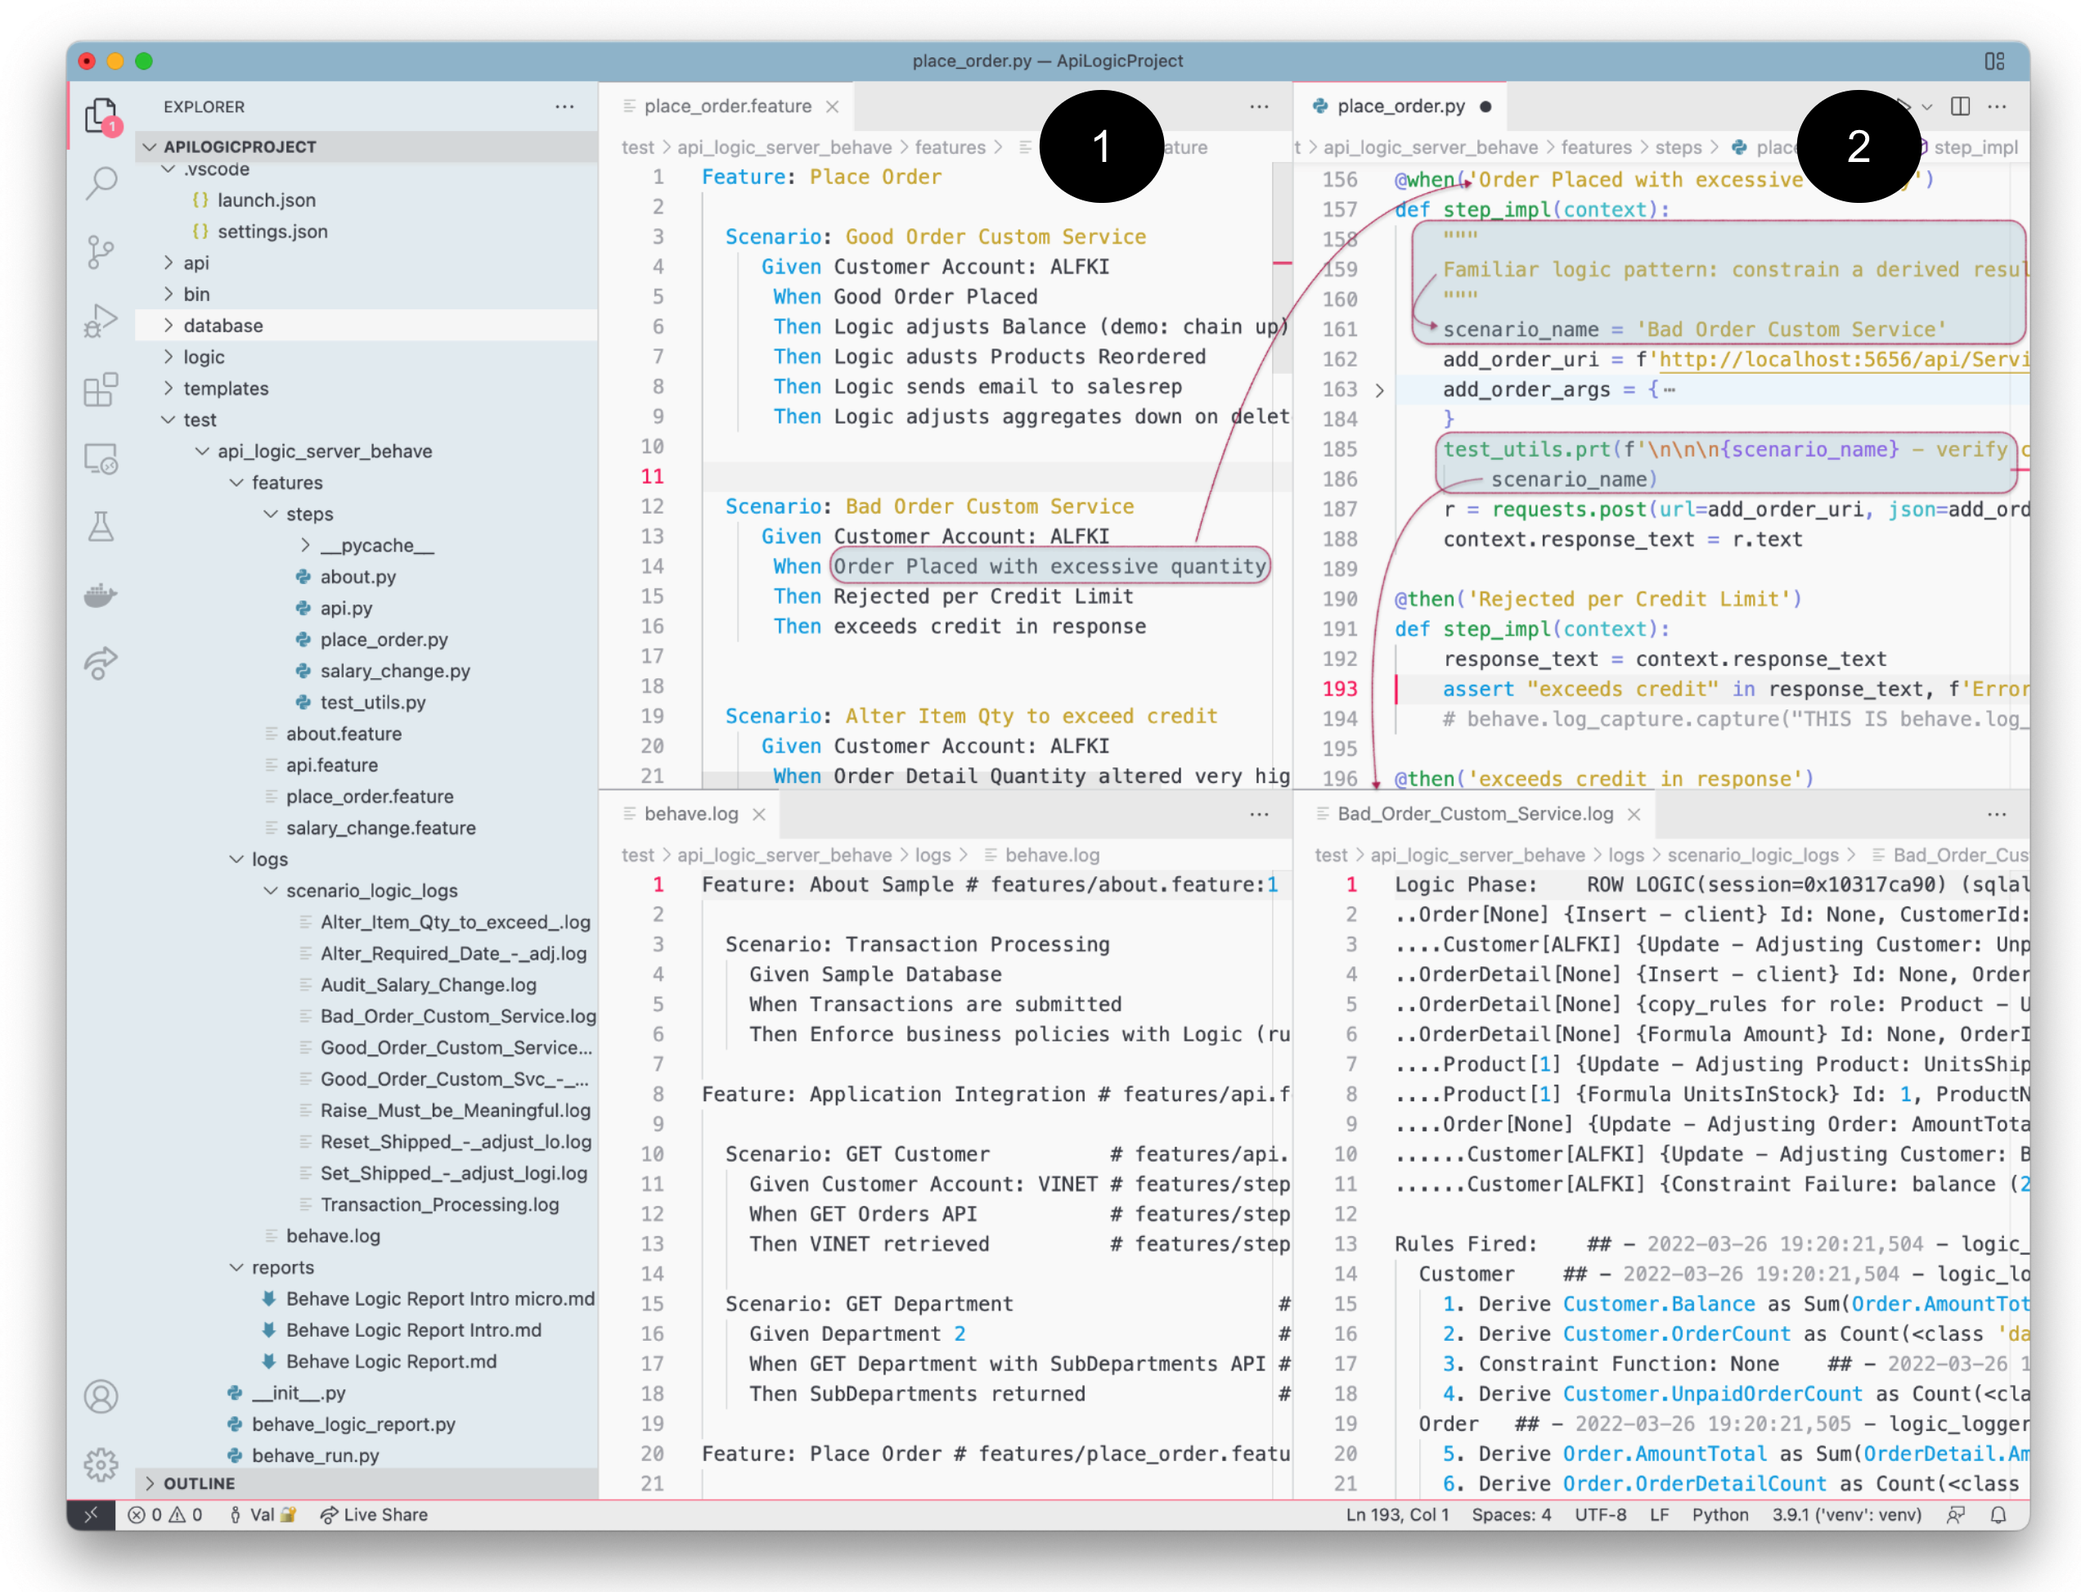
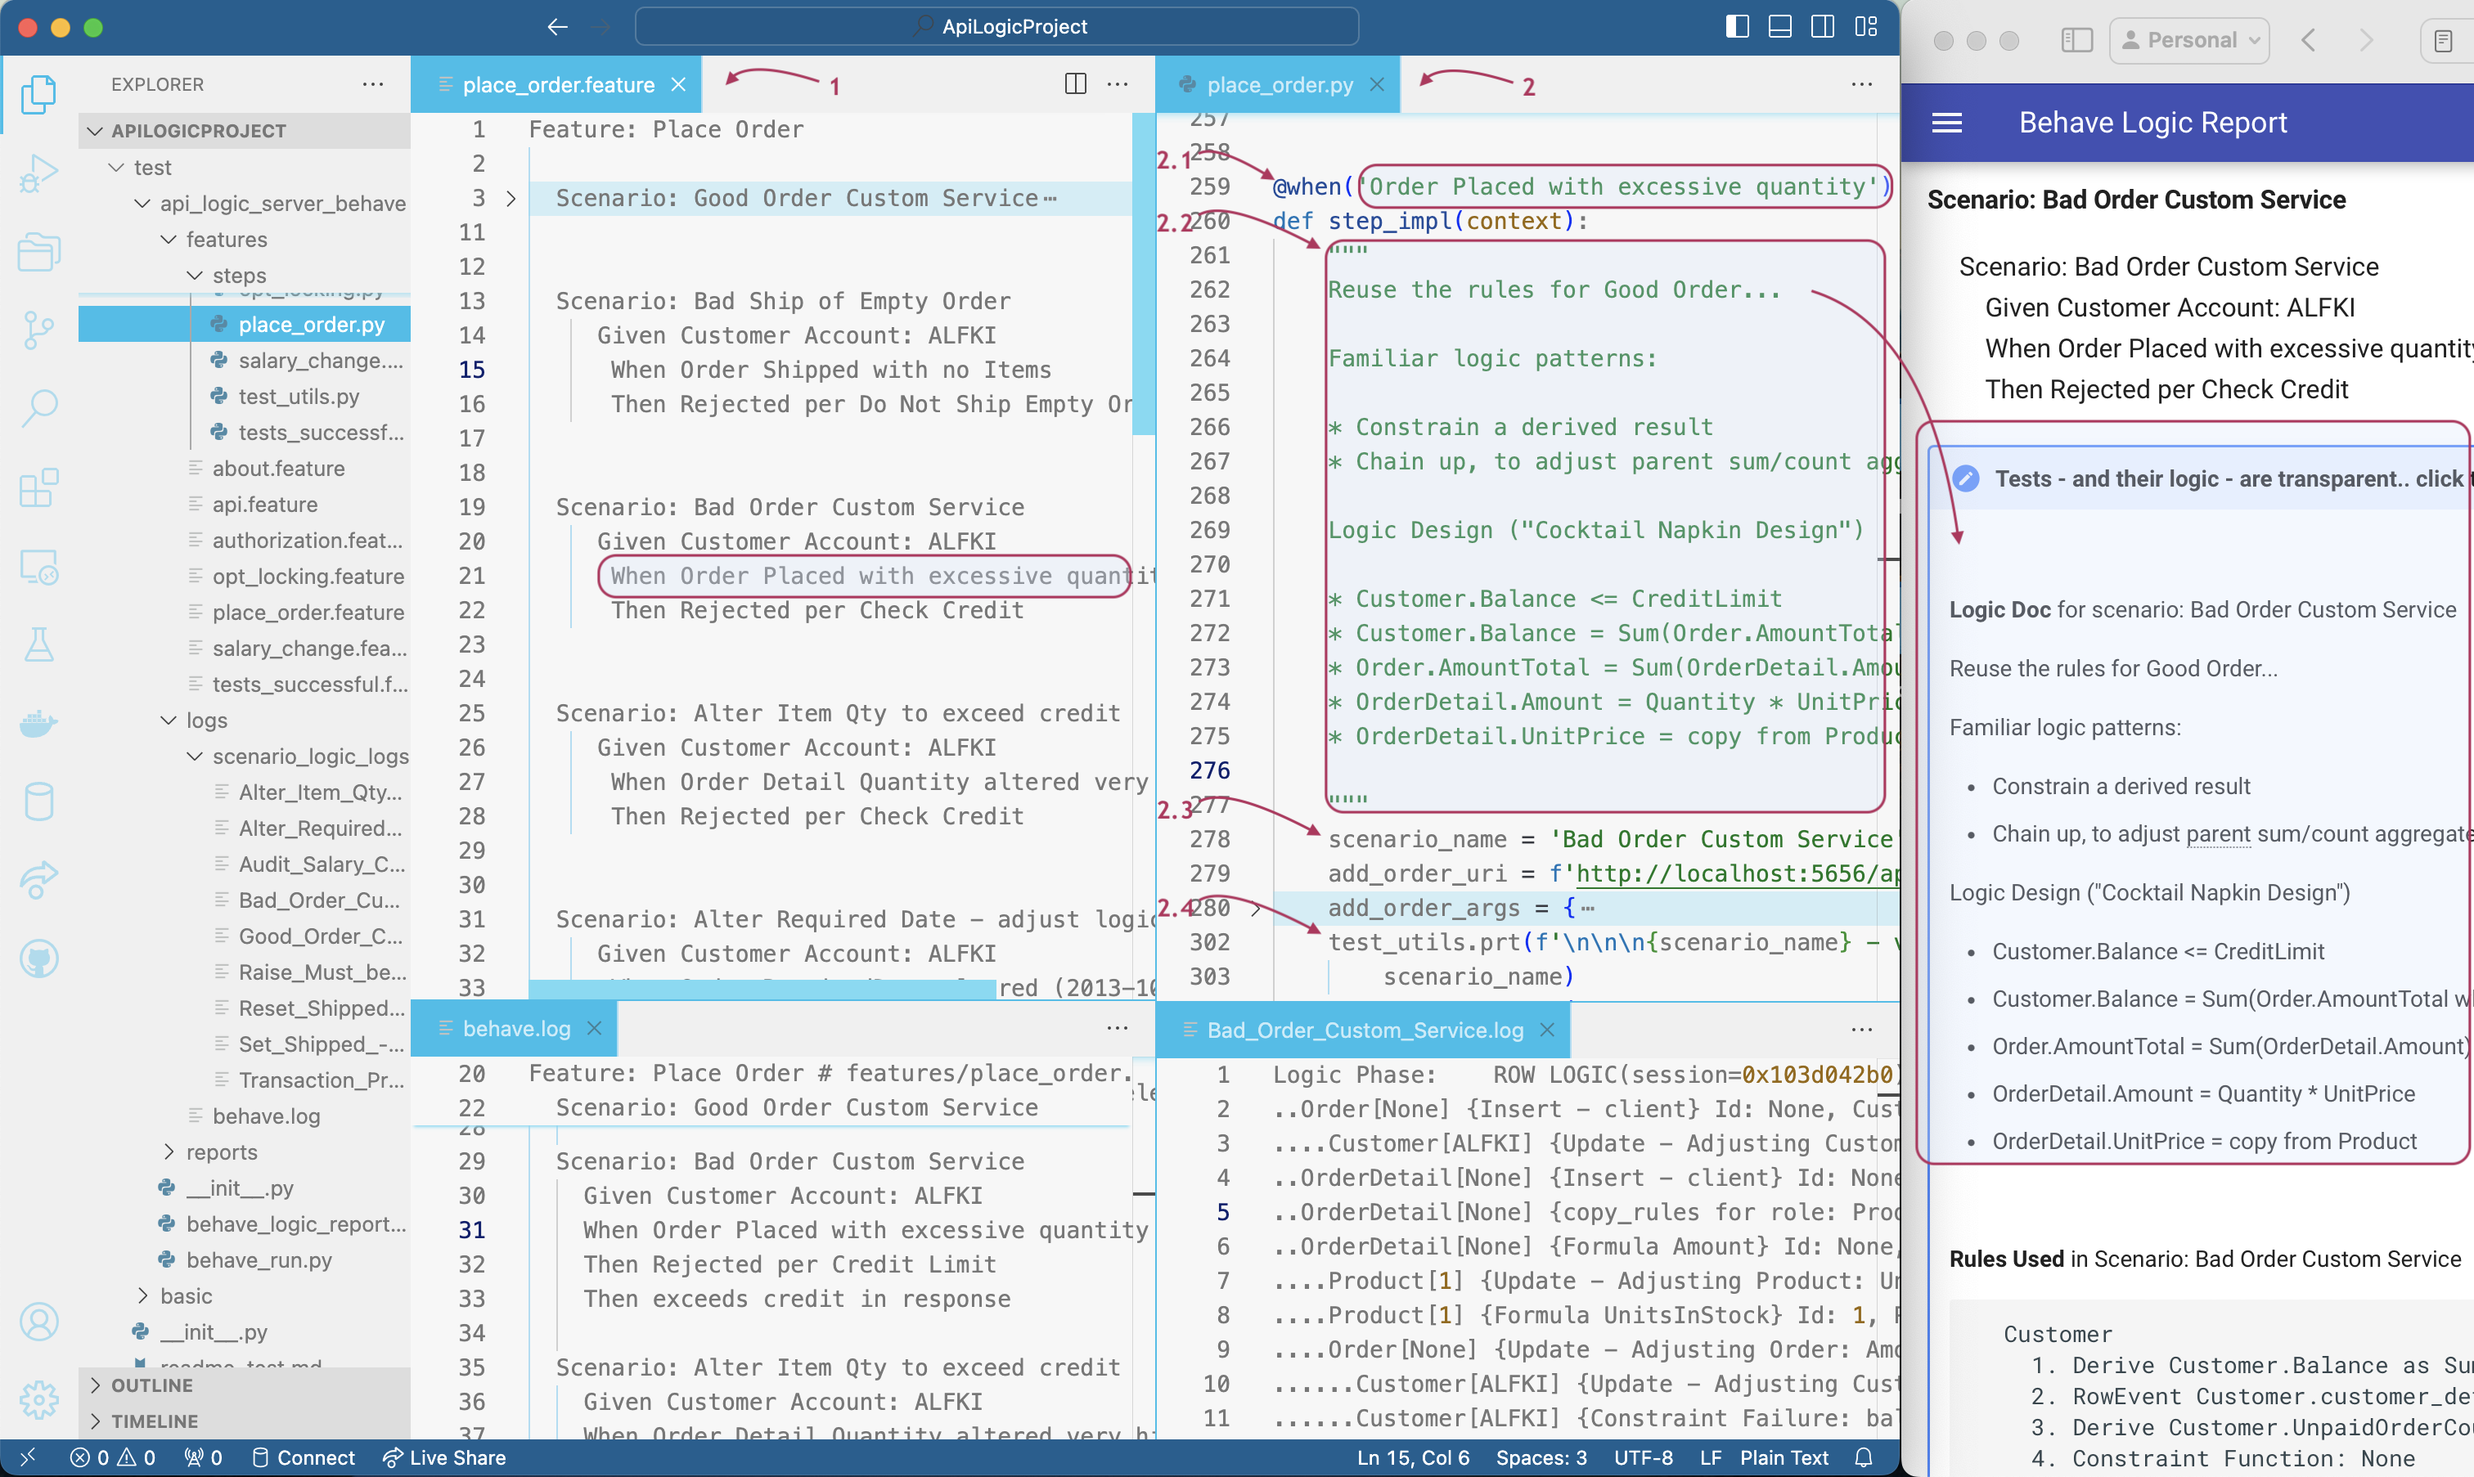
clarify behave usage

diff --git a/docs/Logic-Tutorial.md b/docs/Logic-Tutorial.md
@@ -166,6 +166,7 @@ Note this "cocktail napkin spec" is short, yet clear.  That's because instead of
 Business Logic is the heart of the system, enforcing our business policies.  Logic consists of multi-table constraints and derivations, and actions such as sending email and messages.  A core Behave objective is to define and test such behavior.
 
 It's generally accepted that such domain-specific logic _must_ require domain-specific code.  The problem is that this is:
+
 * **slow** (it's often nearly half the system).
 * **opaque** to business users.
 * **painful to maintain** - it's no secret that developers hate maintenance, since it's less coding than _"archaeology"._  A painful amount of time is spent reading the existing code, to understand where to insert the new logic.
@@ -218,9 +219,12 @@ The rules fire as transactions are run, and produce Logic Log files later used i
 
 1. `test/api_logic_server_behave/behave.log` - summarizes test success / failure
 2. `api_logic_server_behave/scenario_logic_logs/Bad_Order_Custom_Service.log` - [Logic Log output](Logic-Why.md#extend-python).
+
    * The code on line 161 signals the name of Logic Log
    * Note the Logic Log actually consists of 2 sections:
-      * The first shows each rule firing, including complete old/new row values, with indentation for `multi-table chaining`
+
+      * The first shows each rule firing, including complete old/new row values, with 
+      indentation for `multi-table chaining`
       * The "Rules Fired" summarizes which rules actually fired, representing a _confirmation of our Logic Design_
 
 >  You can use the debugger to stop in a test and verify results
@@ -239,6 +243,7 @@ To run it, use Launch Configuration `Behave Logic Report`:
 
 1. Reads your current `readme.md` file (text like you are reading now), and
 2. Appends the [Behave Logic Report:](#behave-logic-report) by processing the files created in step 3b
+
    1. Reading the `behave.log`, and
    2. Injecting the `scenario_logic_logs` files
 3. Creates the output report as a wiki file named `report_behave_logic.md`

diff --git a/docs/Behave.md b/docs/Behave.md
@@ -63,17 +63,17 @@ Feature (aka Story) files are designed to promote IT / business user collaborati
 
 ## 2. Code `.py` file to implement test
 
-Implement your tests in Python.  Here, the tests are largely _read existing data_, _run transaction_, and _test results_, using the API.  You can obtain the URLs from the swagger.
+Implement your tests in Python.  Here, the tests are largely _1. read existing data_, _2. run transaction_, and _3. test results_, using the API.  You can obtain the URLs for reading/updatind data from the swagger.
 
-Key points:
+Key points (see items 2.1, 2.2 etc in the diagram above):
 
-* Link your scenario / implementations with annotations, as shown for _Order Placed with excessive quantity_.
+1. Link your scenario / implementations with `@when` annotations, as shown for _Order Placed with excessive quantity_.
 
-* Include the `test_utils.prt()` call; be sure to use specify the scenario name as the 2nd argument.  This is what drives the name of the Logic Log file, discussed below.
+2. Optionally, include a ___Python docstring___ on your `@when` implementation as shown above, delimited by `"""` strings (see _"Familiar logic pattern"_ in the screen shot, above). If provided, this will be written into the wiki report.
 
-* Optionally, include a Python docstring on your `when` implementation as shown above, delimited by `"""` strings (see _"Familiar logic pattern"_ in the screen shot, above). If provided, this will be written into the wiki report.
+3. Important: the system assumes the line following the docstring identifies the `scenario_name`; be sure to include it.
 
-* Important: the system assumes the following line identifies the scenario_name; be sure to include it.
+4. Include the `test_utils.prt()` call; be sure to use specify the scenario name as the 2nd argument.  This is what drives the name of the Logic Log file, discussed below.
 
 &nbsp;&nbsp;
 
